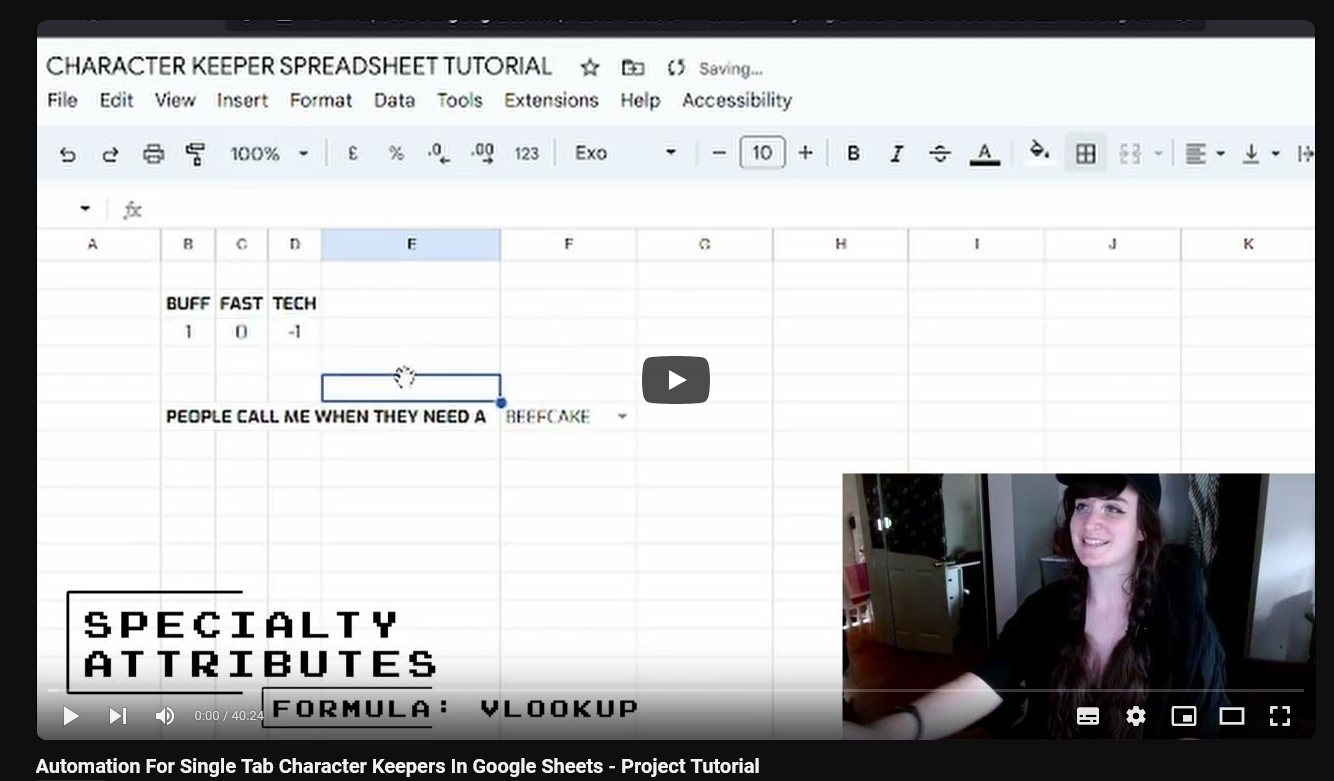
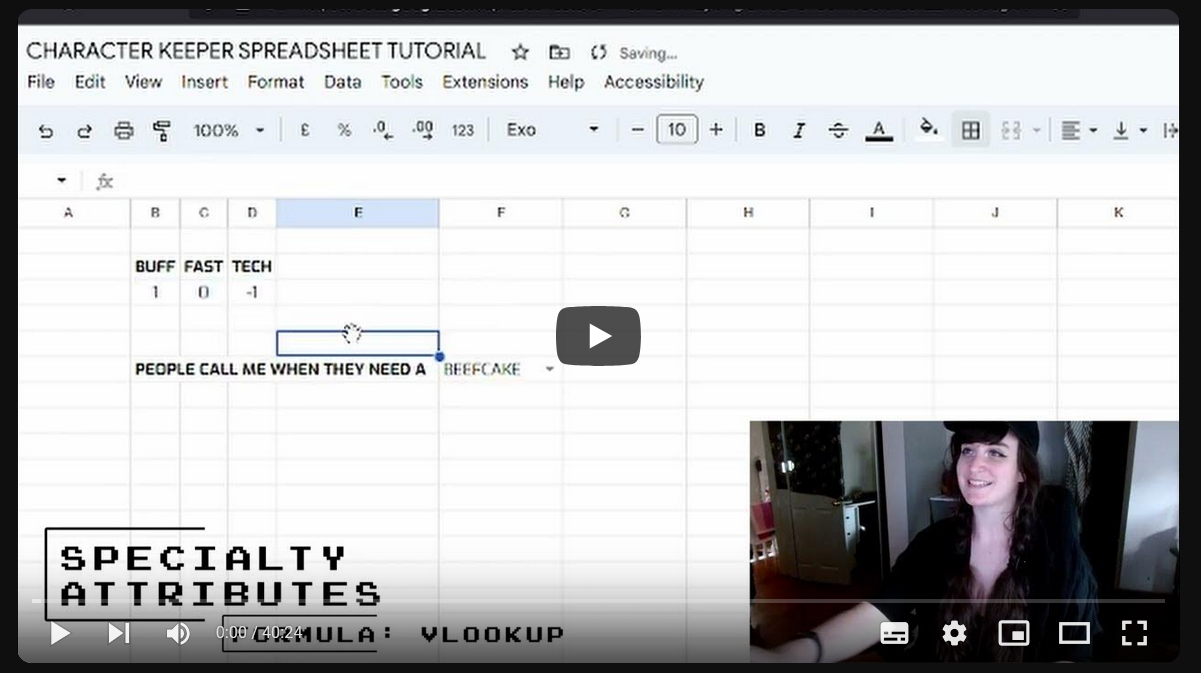
header url fix, minor typos/image crop changes

diff --git a/editing.html b/editing.html
@@ -41,8 +41,8 @@
             </script>
                 <!-- END OF BUTTON SCRIPT -->
 
-    <h1>Editing</h1>
-    <p>The majority of my editing work has been in the field of tabletop roleplaying games. Not only do TTRPG books have to read as cleanly as any other written publication, they also have to convey complex rules to readers at a variety of skill levels. I specialise in helping to craft clear, logically laid-out instructions that don't grate against themselves or the flow of their intended use.</p>
+    <h1>Editing Credits and Testimonials</h1>
+    <p>The majority of my editing work has been in the field of tabletop roleplaying games. Not only do TTRPG books have to read as cleanly as any other written publication, they also have to convey complex rules to readers at a variety of skill levels. Because of this, I specialise in helping to craft clear, logically laid-out instructions that don't grate against themselves or the flow of their intended use.</p>
     <p>As a developmental and substantive editor (or sometimes "design consultant", a type of developmental editing pertaining to game mechanics), I enjoy working closely with writers, making sure I have a thorough understanding of their intentions and helping them make sure those intentions are conveyed. I work flexibly at the micro and the macro level, able both to dig in deep and to look at the bigger picture, ensuring that every aspect of the work is clear.</p>
     <div class="row">
       <div class="column left">
